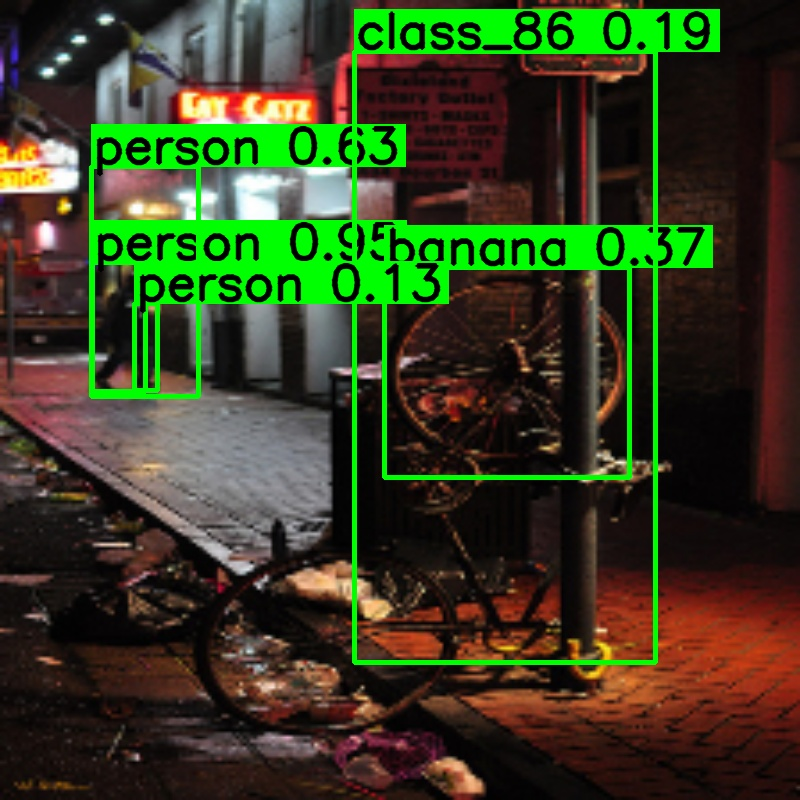
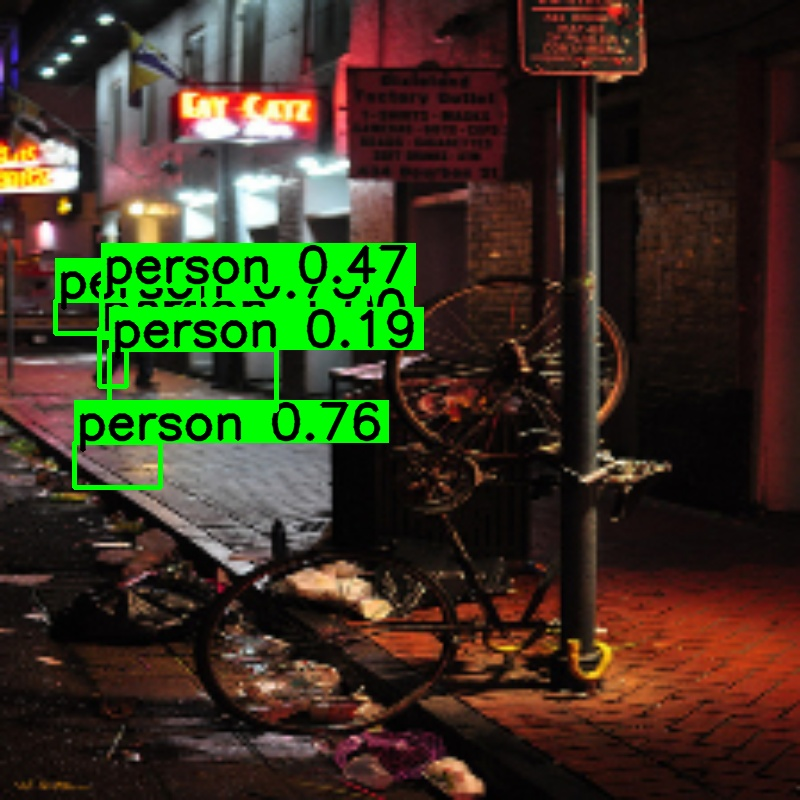
some changes to change performance

Changed region(s): [[0.0625, 0.0, 0.9062, 0.8438]]

diff --git a/detection/edge_detection.py b/detection/edge_detection.py
@@ -6,6 +6,7 @@ from torchvision.models.detection.image_list import ImageList
 
 device = torch.device("cuda" if torch.cuda.is_available() else "cpu")
 
+
 class EdgeDetector:
 
     def __init__(self):
@@ -49,10 +50,9 @@ class EdgeDetector:
 
         for img in images:
 
-            img = cv2.resize(img, (800, 800)) # the boxes get an offset due to resizing, so we stay at 244 X 244
-            # img = cv2.resize(img, (224,224))
+            img = cv2.resize(img, (800, 800))
 
-            tensor = torch.tensor(img).permute(2,0,1).float()/255
+            tensor = torch.tensor(img).permute(2, 0, 1).float() / 255
             tensor = tensor.unsqueeze(0).to(device)
 
             with torch.no_grad():
@@ -64,16 +64,19 @@ class EdgeDetector:
 
 
     # -----------------------------
-# Step 3: compute weighted features (PAPER-CORRECT)
-# -----------------------------
+    # Step 3: compute weighted features (eq. 7)
+    # orig_feat gets weight = 1
+    # each enhanced feat gets weight = v_i
+    # features stay SEPARATE (not summed)
+    # -----------------------------
     def compute_weighted_features(self, orig_feat, features, weights):
 
-        all_features = []
+        weighted_features = []
 
-        # original image (weight = 1)
-        all_features.append(orig_feat)
+        # original image: weight = 1 (eq. 7, v_0 = 1)
+        weighted_features.append(orig_feat)
 
-        # enhanced images
+        # enhanced images: weight = v_i
         for feat, w in zip(features, weights):
 
             weighted = {}
@@ -81,63 +84,53 @@ class EdgeDetector:
             for k in feat:
                 weighted[k] = feat[k] * float(w)
 
-            all_features.append(weighted)
+            weighted_features.append(weighted)
 
-        return all_features
+        return weighted_features
+
 
     # -----------------------------
-    # Step 5: run detector
+    # Step 4: sum weighted feature maps into one (eq. 7 final combination)
+    # RPN will use orig_feat only (passed separately)
+    # ROI heads use this combined map
     # -----------------------------
-    def detect(self, image):
+    def fuse_feature_maps(self, weighted_features):
 
-        tensor = torch.tensor(image).permute(2,0,1).float()/255
-        tensor = tensor.unsqueeze(0).to(device)
+        fused = {}
 
-        with torch.no_grad():
-            output = self.model(tensor)
+        for k in weighted_features[0]:
+            fused[k] = sum(feat[k] for feat in weighted_features)
 
-        return output
-    
-class BackboneOverride(torch.nn.Module):
-    def __init__(self, features):
-        super().__init__()
-        self.features = features
+        return fused
 
-    def forward(self, x):
-        return self.features
 
-class WeightedFasterRCNN:
+    # -----------------------------
+    # Step 5: detect using paper-correct two-stage approach:
+    #   - RPN on original image features only
+    #   - ROI heads on fused weighted features
+    # -----------------------------
+    def detect(self, orig_feat, fused_feat, image_tensor):
 
-    def __init__(self):
-
-        self.model = torchvision.models.detection.fasterrcnn_resnet50_fpn(
-            weights="DEFAULT"
-        )
-
-        self.model = self.model.to(device)
-        self.model.eval()
-
-    def detect_with_features(self, image_tensor, fused_features):
-
-        # Step 1: create ImageList
         image_sizes = [(image_tensor.shape[-2], image_tensor.shape[-1])]
         images = ImageList(image_tensor, image_sizes)
 
-        # Step 2: RPN
-        proposals, _ = self.model.rpn(images, fused_features)
+        with torch.no_grad():
 
-        # Step 3: ROI heads
-        detections, _ = self.model.roi_heads(
-            fused_features,
-            proposals,
-            image_sizes,
-        )
+            # RPN uses original image features only (paper Section III-C)
+            proposals, _ = self.model.rpn(images, orig_feat)
 
-        # 🚨 Step 4: POSTPROCESS (YOU MISSED THIS)
-        detections = self.model.transform.postprocess(
-            detections,
-            image_sizes,
-            image_sizes
-        )
+            # ROI heads use fused weighted feature maps
+            detections, _ = self.model.roi_heads(
+                fused_feat,
+                proposals,
+                image_sizes,
+            )
+
+            # postprocess
+            detections = self.model.transform.postprocess(
+                detections,
+                image_sizes,
+                image_sizes
+            )
 
         return detections

diff --git a/enhancement/cloud_enhancement.py b/enhancement/cloud_enhancement.py
@@ -1,6 +1,5 @@
 import torch
 import numpy as np
-import os
 import cv2
 
 from enhancement.models.enhancement_net import EnhancementNet
@@ -10,10 +9,9 @@ device = torch.device("cuda" if torch.cuda.is_available() else "cpu")
 
 class CloudEnhancer:
 
-    def __init__(self, model_paths, target_dirs):
+    def __init__(self, model_paths, target_dirs=None):
 
         self.models = []
-        self.target_dirs = target_dirs
         self.criterion = torch.nn.MSELoss()
 
         for path in model_paths:
@@ -28,15 +26,37 @@ class CloudEnhancer:
         print(f"Loaded {len(self.models)} enhancement subnetworks")
 
     # ----------------------------------
+    # Compute targets on-the-fly from Y
+    # ----------------------------------
+    def _compute_targets(self, y_np):
+
+        clahe = cv2.createCLAHE(clipLimit=2.0, tileGridSize=(8, 8))
+        sharpen_kernel = np.array([[0,-1,0],[-1,5,-1],[0,-1,0]])
+
+        return [
+            clahe.apply(y_np),                                        # clahe
+            cv2.equalizeHist(y_np),                                   # hist
+            cv2.filter2D(y_np, -1, sharpen_kernel),                   # sharpen
+            cv2.bilateralFilter(y_np, 9, 75, 75),                     # bilateral
+            np.array(255 * (y_np / 255) ** 1.5, dtype=np.uint8),     # gamma
+        ]
+
+    # ----------------------------------
     # Core cloud enhancement stage
     # ----------------------------------
-    def enhance_tensor(self, Y_tensor, image_name):
+    def enhance_tensor(self, Y_tensor, image_name=None):
 
         """
         Y_tensor shape: (1,1,224,224)
+        Targets are computed on-the-fly from Y so this works on any image,
+        not just ones pre-saved in target folders.
         """
 
         Y_tensor = Y_tensor.to(device)
+
+        # extract raw uint8 Y for filter computation
+        y_np = (Y_tensor.squeeze().cpu().numpy() * 255).astype(np.uint8)
+        targets_np = self._compute_targets(y_np)
 
         enhanced_images = []
         losses = []
@@ -49,21 +69,9 @@ class CloudEnhancer:
                 enhanced_images.append(pred)
 
                 # -----------------------------
-                # Load corresponding target
+                # Build target tensor
                 # -----------------------------
-                target_path = os.path.join(
-                    self.target_dirs[i],
-                    image_name
-                )
-
-                target = cv2.imread(target_path, cv2.IMREAD_GRAYSCALE)
-
-                if target is None:
-                    raise ValueError(f"Missing target: {target_path}")
-
-                target = cv2.resize(target, (224, 224))
-                target = target.astype(np.float32) / 255.0
-
+                target = targets_np[i].astype(np.float32) / 255.0
                 target = torch.tensor(target).unsqueeze(0).unsqueeze(0).to(device)
 
                 # -----------------------------
@@ -77,7 +85,7 @@ class CloudEnhancer:
         N = len(losses)
 
         # -----------------------------
-        # Paper formula
+        # Paper formula (eq. 6)
         # -----------------------------
         weights = (1 - losses / losses.sum()) * (N / (N - 1))
 

diff --git a/edge_example.py b/edge_example.py
@@ -37,7 +37,7 @@ edge = EdgeDetector()
 # Input image
 # -----------------------------
 
-image_path = "example-dataset/cat1/2015_00022.jpg"
+image_path = "dataset/1/Bicycle/2015_00022.jpg"
 
 rgb_resized, Y, Cr, Cb = preprocess_single_image(image_path)
 
@@ -47,7 +47,13 @@ Y_tensor = torch.tensor(Y)
 # -----------------------------
 # Cloud stage
 # -----------------------------
-image_name = os.path.basename(image_path)
+base = os.path.basename(image_path)
+
+# remove extension
+base = os.path.splitext(base)[0]
+
+# match preprocessing naming
+image_name = f"Y_{base}.png"
 enhanced_images, weights = cloud.enhance_tensor(Y_tensor, image_name)
 
 print("Dynamic weights:", weights)